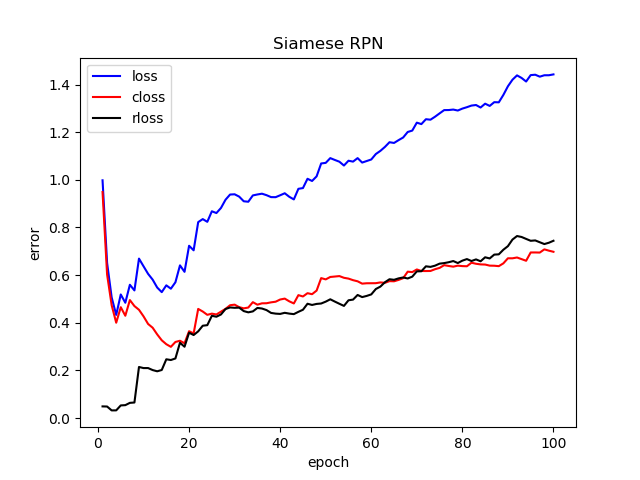
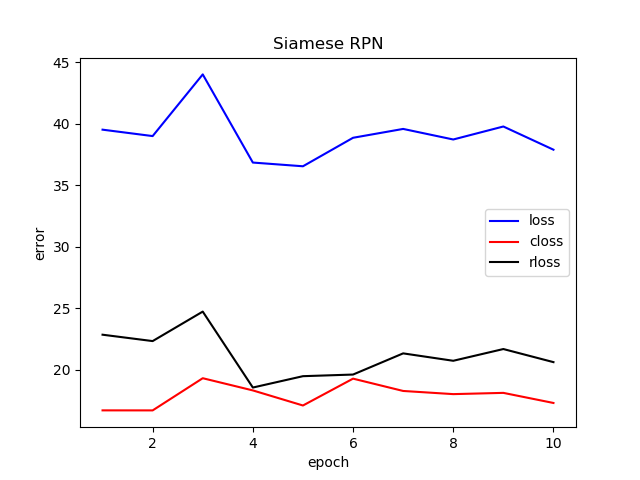
Update

diff --git a/train/train_siamrpn.py b/train/train_siamrpn.py
@@ -8,18 +8,17 @@ import argparse
 import numpy as np
 from tqdm import tqdm
 from torch.nn import init
+from util import AverageMeter
 from net import TrackerSiamRPN
-import matplotlib.pyplot as plt
 from data import TrainDataLoader
-import torch.backends.cudnn as cudnn
+from parameters import Config as config
 from torch.utils.data import DataLoader
 
 parser = argparse.ArgumentParser(description='PyTorch SiameseRPN Training')
 
 parser.add_argument('--train_path', default='/Users/arbi/Desktop/val', metavar='DIR',help='path to dataset')
 parser.add_argument('--experiment_name', default='default', metavar='DIR',help='path to weight')
-parser.add_argument('--checkpoint_path', default='../model_e25.pth', help='resume')
-parser.add_argument('--max_batches', default=0, type=int, metavar='N', help='number of batch in one epoch')
+parser.add_argument('--checkpoint_path', default=None, help='resume')
 
 #../weights-0690000.pth.tar #../model_e25.pth
 
@@ -27,27 +26,13 @@ def main():
 
     '''parameter initialization'''
     args = parser.parse_args()
-    exp_name_dir = experiment_name_dir(args.experiment_name)
-
-    '''Load the parameters from json file'''
-    json_path = os.path.join(exp_name_dir, 'parameters.json')
-    assert os.path.isfile(json_path), ("No json configuration file found at {}".format(json_path))
-    with open(json_path) as data_file:
-        params = json.load(data_file)
+    exp_name_dir = AverageMeter.experiment_name_dir(args.experiment_name)
 
     '''model on gpu'''
-    model = TrackerSiamRPN(params)
-    #model = model.cuda()
-    cudnn.benchmark = True
+    model = TrackerSiamRPN()
 
     '''setup data loader'''
     data_loader = TrainDataLoader(args.train_path)
-
-    '''compute max_batches'''
-    for root, dirs, files in os.walk(args.train_path):
-        for dirname in dirs:
-            dir_path = os.path.join(root, dirname)
-            args.max_batches += len(os.listdir(dir_path))
 
     '''load weights'''
     init_weights(model)
@@ -60,32 +45,10 @@ def main():
         except:
             init_weights(model)
 
-    '''Data for plotting'''
-    steps_array = []
-    loss_array  = []
-    closs_array = []
-    rloss_array = []
-
-    def plot(step, loss, closs, rloss, exp_name_dir, show=False):
-        '''setup plot'''
-        plt.plot(step, loss, 'r', label='loss', color='blue')
-        plt.plot(step, closs, 'r', label='closs', color='red')
-        plt.plot(step, rloss, 'r', label='rloss', color='black')
-        plt.title("Siamese RPN")
-        plt.ylabel('error')
-        plt.xlabel('epoch')
-        plt.legend()
-
-        '''save plot'''
-        plt.savefig("{}/test.png".format(exp_name_dir))
-        if show:
-            plt.show()
-
     '''train phase'''
-    closses, rlosses, tlosses = AverageMeter(), AverageMeter(), AverageMeter()
-    steps = 0
-    for epoch in range(params['epoches']):
-        for example in tqdm(range(100)):
+    closses, rlosses, tlosses, steps = AverageMeter(), AverageMeter(), AverageMeter(), AverageMeter()
+    for epoch in range(config.epoches):
+        for example in tqdm(range(10)):
 
             index_list = range(data_loader.__len__())
             closs, rloss, loss, cur_lr = model.step(epoch, data_loader, example, index_list, backward=True)
@@ -96,33 +59,27 @@ def main():
                sys.exit(0)
 
             closses.update(closs.cpu().item())
+            closses.closs_array.append(closses.avg)
+
             rlosses.update(rloss.cpu().item())
+            rlosses.rloss_array.append(rlosses.avg)
+
             tlosses.update(loss.cpu().item())
-            steps+=1
+            tlosses.loss_array.append(tlosses.avg)
+
+            steps.update(tlosses.count)
+            steps.steps_array.append(steps.count)
 
             if example % 1 == 0:
-                print("Train epoch:{:04d}\texample:{:06d}/{:06d}({:.2f})%\tlr:{:.7f}\tcloss:{:.4f}\trloss:{:.4f}\ttloss:{:.4f}".format((epoch+1), steps, args.max_batches, 100*(steps)/args.max_batches, cur_lr, closses.avg, rlosses.avg, tlosses.avg ))
-                steps_array.append(steps)
-                loss_array.append(tlosses.avg)
-                closs_array.append(closses.avg)
-                rloss_array.append(rlosses.avg)
+                print("Train epoch:{:04d}\texample:{:06d}/{:06d}({:.2f})%\tlr:{:.7f}\tcloss:{:.4f}\trloss:{:.4f}\ttloss:{:.4f}".format((epoch+1),
+                        steps.count, data_loader._max_batches(), 100*(steps.count)/data_loader._max_batches(),
+                        cur_lr, closses.avg, rlosses.avg, tlosses.avg ))
 
-        plot(steps_array, loss_array, closs_array, rloss_array, exp_name_dir)
+        '''save plot'''
+        steps.plot(exp_name_dir)
 
         '''save model'''
-        model_save_dir_pth = '{}/model'.format(exp_name_dir)
-        if not os.path.exists(model_save_dir_pth):
-                os.makedirs(model_save_dir_pth)
-        net_path = os.path.join(model_save_dir_pth, 'model_e%d.pth' % (epoch + 1))
-        torch.save(model.net.state_dict(), net_path)
-
-def experiment_name_dir(experiment_name):
-    experiment_name_dir = 'experiments/{}'.format(experiment_name)
-    if experiment_name == 'default':
-        print('You are using "default" experiment, my advice to you is: Copy "default" change folder name and change settings in file "parameters.json"')
-    else:
-        print('You are using "{}" experiment'.format(experiment_name))
-    return experiment_name_dir
+        model.save(model, exp_name_dir, epoch)
 
 def init_weights(model, init_type='normal', gain=0.02):
     def init_func(m):
@@ -147,23 +104,6 @@ def init_weights(model, init_type='normal', gain=0.02):
             init.constant_(m.bias.data, 0.0)
     #print('initialize network with %s' % init_type)
     model.net.apply(init_func)
-
-class AverageMeter(object):
-    '''Computes and stores the average and current value'''
-    def __init__(self):
-        self.reset()
-
-    def reset(self):
-        self.val = 0
-        self.avg = 0
-        self.sum = 0
-        self.count = 0
-
-    def update(self, val, n=1):
-        self.val = val
-        self.sum += val * n
-        self.count += n
-        self.avg = self.sum / self.count
 
 if __name__ == '__main__':
     main()

diff --git a/train/net.py b/train/net.py
@@ -1,13 +1,14 @@
 # -*- coding: utf-8 -*-
 
-import torch.nn as nn
-import torch.nn.functional as F
-import torch
-import numpy as np
+import os
 import cv2
+import torch
 import random
+import numpy as np
+import torch.nn as nn
 import matplotlib.pyplot as plt
-
+import torch.nn.functional as F
+from parameters import Config as config
 from got10k.trackers import Tracker
 
 class SiamRPN(nn.Module):
@@ -71,14 +72,13 @@ class SiamRPN(nn.Module):
 
 class TrackerSiamRPN(Tracker):
 
-    def __init__(self, params, net_path=None, **kargs):
+    def __init__(self, net_path=None, **kargs):
         super(TrackerSiamRPN, self).__init__(
             name='SiamRPN', is_deterministic=True)
 
         '''setup GPU device if available'''
         # self.cuda   = torch.cuda.is_available()
         # self.device = torch.device('cuda:0' if self.cuda else 'cpu')
-        self.params   = params
 
         '''setup model'''
         self.net = SiamRPN()
@@ -90,13 +90,13 @@ class TrackerSiamRPN(Tracker):
         #self.net = self.net.to(self.device)
 
         '''setup optimizer'''
-        self.criterion   = MultiBoxLoss(params)
+        self.criterion   = MultiBoxLoss()
 
         self.optimizer   = torch.optim.SGD(
             self.net.parameters(),
-            lr           = self.params["lr"],
-            momentum     = self.params["momentum"],
-            weight_decay = self.params["weight_decay"])
+            lr           = config.lr,
+            momentum     = config.momentum,
+            weight_decay = config.weight_decay)
 
     def step(self, epoch, data_loader, example, index_list, backward=True):
 
@@ -105,7 +105,7 @@ class TrackerSiamRPN(Tracker):
         else:
             self.net.eval()
 
-        cur_lr = adjust_learning_rate(self.params["lr"], self.optimizer, epoch, gamma=0.1)
+        cur_lr = adjust_learning_rate(config.lr, self.optimizer, epoch, gamma=0.1)
 
         template, detection, pos_neg_diff = data_loader.__getitem__(random.choice(index_list))
 
@@ -126,11 +126,17 @@ class TrackerSiamRPN(Tracker):
 
         return closs, rloss, loss, cur_lr
 
-class MultiBoxLoss(nn.Module):
-    def __init__(self, params):
-        super(MultiBoxLoss, self).__init__()
+    '''save model'''
+    def save(self,model, exp_name_dir, epoch):
+        model_save_dir_pth = '{}/model'.format(exp_name_dir)
+        if not os.path.exists(model_save_dir_pth):
+                os.makedirs(model_save_dir_pth)
+        net_path = os.path.join(model_save_dir_pth, 'model_e%d.pth' % (epoch + 1))
+        torch.save(model.net.state_dict(), net_path)
 
-        self.params = params
+class MultiBoxLoss(nn.Module):
+    def __init__(self):
+        super(MultiBoxLoss, self).__init__()
 
     def forward(self, predictions, targets):
 

diff --git a/train/util.py b/train/util.py
@@ -1,0 +1,49 @@
+import matplotlib.pyplot as plt
+
+class AverageMeter(object):
+    '''Computes and stores the average and current value'''
+    def __init__(self):
+        self.reset()
+        self.plot_c = 0
+
+    steps_array = []
+    loss_array  = []
+    closs_array = []
+    rloss_array = []
+
+    def reset(self):
+        self.val = 0
+        self.avg = 0
+        self.sum = 0
+        self.count = 0
+
+    def update(self, val, n=1):
+        self.val = val
+        self.sum += val * n
+        self.count += n
+        self.avg = self.sum / self.count
+
+    '''setup plot'''
+    def plot(self, exp_name_dir, step = steps_array, loss = loss_array, closs = closs_array, rloss = rloss_array, title = "Siamese RPN", ylabel = 'error',  xlabel = 'epoch', show=False):
+        plt.plot(step, loss, 'r', label='loss', color='blue')
+        plt.plot(step, closs, 'r', label='closs', color='red')
+        plt.plot(step, rloss, 'r', label='rloss', color='black')
+        plt.title(title)
+        plt.ylabel(ylabel)
+        plt.xlabel(xlabel)
+        if self.plot_c == 0:
+            plt.legend()
+            self.plot_c +=1
+
+        '''save plot'''
+        plt.savefig("{}/test.png".format(exp_name_dir))
+        if show:
+            plt.show()
+
+    def experiment_name_dir(experiment_name):
+        experiment_name_dir = 'experiments/{}'.format(experiment_name)
+        if experiment_name == 'default':
+            print('You are using "default" experiment, my advice to you is: Copy "default" change folder name and change settings in file "parameters.json"')
+        else:
+            print('You are using "{}" experiment'.format(experiment_name))
+        return experiment_name_dir

diff --git a/train/data.py b/train/data.py
@@ -126,6 +126,7 @@ class TrainDataLoader(Dataset):
         self.anchors = self.anchor_generator.gen_anchors() #centor
         self.ret = {}
         self.count = 0
+        self.max_batches = 0
 
     def get_transform_for_train(self):
         transform_list = []
@@ -318,3 +319,12 @@ class TrainDataLoader(Dataset):
 
     def __len__(self):
         return len(self.sub_class_dir)
+
+    def _max_batches(self):
+        a = 0
+        for root, dirs, files in os.walk(self.img_dir_path):
+            
+            for dirname in dirs:
+                dir_path = os.path.join(root, dirname)
+                a += len(os.listdir(dir_path))
+        return a

diff --git a/train/parameters.py b/train/parameters.py
@@ -1,0 +1,14 @@
+class Config(object):
+    
+    template_img_size = 127
+    detection_img_size = 271
+    stride = 8
+    lr = 1e-5
+    epoches = 200
+    weight_decay = 0.0005
+    momentum = 0.9
+    context = 0.5
+    ratios = [0.33, 0.5, 1, 2, 3]
+    scales = [8]
+    penalty_k = 0.055
+    window_influence = 0.42
